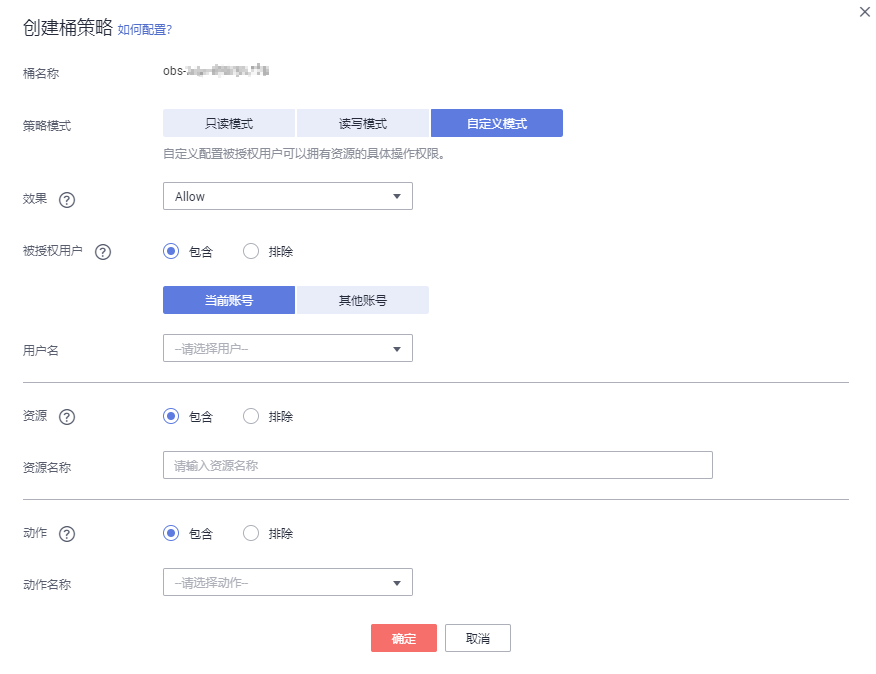
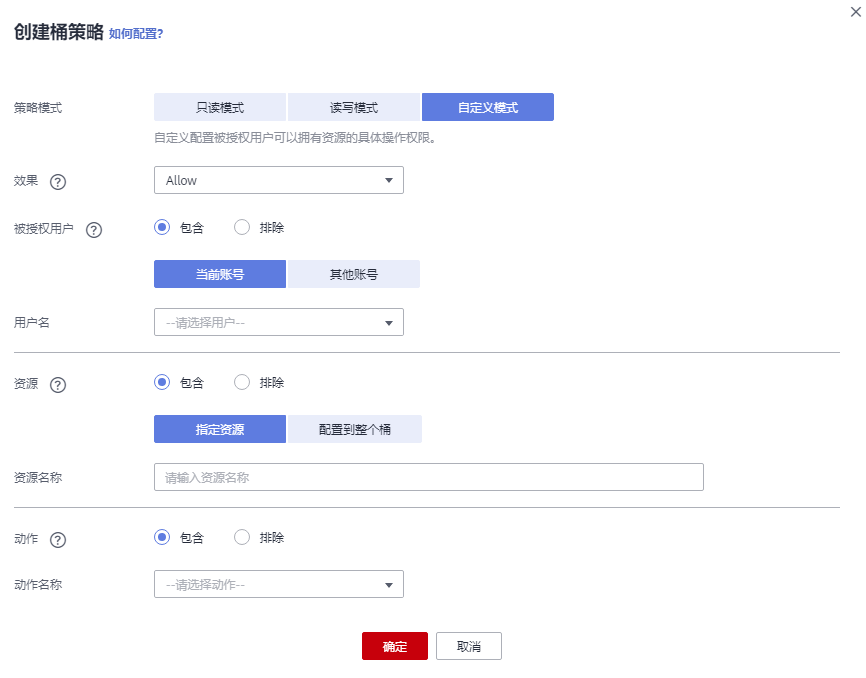
update console guide

diff --git a/cn.zh-cn/控制台指南/index.md b/cn.zh-cn/控制台指南/index.md
@@ -2,7 +2,7 @@
 
 -   [控制台功能概述](控制台功能概述.md)
 -   [使用限制](使用限制.md)
--   [入门]
+-   [入门](入门.md)
     -   [流程简介](流程简介.md)
     -   [设置用户权限](设置用户权限.md)
     -   [登录OBS管理控制台](登录OBS管理控制台.md)
@@ -13,13 +13,13 @@
     -   [删除桶](删除桶（入门操作）.md)
 
 -   [存储类别简介](存储类别简介.md)
--   [管理桶]
+-   [管理桶](管理桶.md)
     -   [创建桶](创建桶.md)
     -   [查看桶的信息](查看桶的信息.md)
     -   [搜索桶](搜索桶.md)
     -   [删除桶](删除桶.md)
 
--   [管理对象]
+-   [管理对象](管理对象.md)
     -   [新建文件夹](新建文件夹.md)
     -   [上传文件](上传文件.md)
     -   [下载文件](下载文件.md)
@@ -32,43 +32,43 @@
     -   [取消删除文件](取消删除文件.md)
     -   [清理碎片](清理碎片.md)
 
--   [服务端加密]
+-   [服务端加密](服务端加密.md)
     -   [服务端加密简介](服务端加密简介.md)
     -   [桶默认加密](桶默认加密.md)
     -   [使用服务端加密方式上传文件](使用服务端加密方式上传文件.md)
 
--   [对象元数据]
+-   [对象元数据](对象元数据.md)
     -   [对象元数据简介](对象元数据简介.md)
     -   [对象元数据Content-Type介绍](对象元数据Content-Type介绍.md)
     -   [配置对象元数据](配置对象元数据.md)
 
--   [桶清单]
+-   [桶清单](桶清单.md)
     -   [桶清单简介](桶清单简介.md)
     -   [配置桶清单](配置桶清单.md)
 
--   [权限控制]
+-   [权限控制](权限控制.md)
     -   [概述](概述.md)
-    -   [权限控制方式介绍]
+    -   [权限控制方式介绍](权限控制方式介绍.md)
         -   [IAM权限](IAM权限.md)
         -   [桶策略和对象策略](桶策略和对象策略.md)
         -   [桶ACL和对象ACL](桶ACL和对象ACL.md)
         -   [桶策略和ACL的关系](桶策略和ACL的关系.md)
         -   [访问控制机制冲突时，如何工作？](访问控制机制冲突时-如何工作.md)
 
-    -   [桶策略参数说明]
+    -   [桶策略参数说明](桶策略参数说明.md)
         -   [效果](效果.md)
         -   [被授权用户](被授权用户.md)
         -   [资源](资源.md)
         -   [动作](动作.md)
         -   [条件](条件.md)
 
-    -   [配置IAM权限]
+    -   [配置IAM权限](配置IAM权限.md)
         -   [创建IAM用户并授权使用OBS](创建IAM用户并授权使用OBS.md)
         -   [OBS自定义策略](OBS自定义策略.md)
         -   [OBS资源](OBS资源.md)
         -   [OBS请求条件](OBS请求条件.md)
 
-    -   [配置桶策略]
+    -   [配置桶策略](配置桶策略.md)
         -   [配置标准桶策略](配置标准桶策略.md)
         -   [配置高级桶策略（普通模式）](配置高级桶策略（普通模式）.md)
         -   [配置高级桶策略（代码模式）](配置高级桶策略（代码模式）.md)
@@ -76,9 +76,9 @@
     -   [配置对象策略](配置对象策略.md)
     -   [配置桶ACL](配置桶ACL.md)
     -   [配置对象ACL](配置对象ACL.md)
-    -   [应用示例]
-        -   [桶拥有者为IAM用户授予桶权限](桶拥有者为IAM用户授予桶权限.md)
-        -   [桶拥有者为其他账号授予桶权限](桶拥有者为其他账号授予桶权限.md)
+    -   [应用示例](应用示例.md)
+        -   [为IAM用户授予指定桶的操作权限](为IAM用户授予指定桶的操作权限.md)
+        -   [为其他华为云账号授予指定桶的操作权限](为其他华为云账号授予指定桶的操作权限.md)
         -   [限制特定地址对桶的访问权限](限制特定地址对桶的访问权限.md)
         -   [限制桶中对象的访问起始时间和结束时间](限制桶中对象的访问起始时间和结束时间.md)
         -   [为匿名用户设置对象的访问权限](为匿名用户设置对象的访问权限.md)
@@ -86,59 +86,59 @@
 
 
 -   [归档数据直读](归档数据直读.md)
--   [多版本控制]
+-   [多版本控制](多版本控制.md)
     -   [多版本控制简介](多版本控制简介.md)
     -   [配置多版本控制](配置多版本控制.md)
 
--   [日志记录]
+-   [日志记录](日志记录.md)
     -   [访问日志记录简介](访问日志记录简介.md)
     -   [配置桶的日志记录](配置桶的日志记录.md)
 
--   [标签]
+-   [标签](标签.md)
     -   [标签简介](标签简介.md)
     -   [配置标签](配置标签.md)
 
--   [事件通知]
+-   [事件通知](事件通知.md)
     -   [SMN通知简介](SMN通知简介.md)
     -   [配置SMN通知](配置SMN通知.md)
     -   [应用举例：配置SMN通知](应用举例-配置SMN通知.md)
 
--   [跨区域复制]
+-   [跨区域复制](跨区域复制.md)
     -   [跨区域复制简介](跨区域复制简介.md)
     -   [配置跨区域复制](配置跨区域复制.md)
 
--   [生命周期管理]
+-   [生命周期管理](生命周期管理.md)
     -   [生命周期管理简介](生命周期管理简介.md)
     -   [配置生命周期规则](配置生命周期规则.md)
 
--   [自定义域名绑定]
+-   [自定义域名绑定](自定义域名绑定.md)
     -   [自定义域名绑定简介](自定义域名绑定简介.md)
     -   [自定义域名绑定配置](自定义域名绑定配置.md)
 
--   [静态网站托管]
+-   [静态网站托管](静态网站托管.md)
     -   [静态网站托管简介](静态网站托管简介.md)
     -   [重定向简介](重定向简介.md)
     -   [配置静态网站托管](配置静态网站托管.md)
     -   [配置重定向请求](配置重定向请求.md)
 
--   [跨域资源共享]
+-   [跨域资源共享](跨域资源共享.md)
     -   [跨域资源共享简介](跨域资源共享简介.md)
     -   [配置跨域资源共享](配置跨域资源共享.md)
 
--   [防盗链]
+-   [防盗链](防盗链.md)
     -   [防盗链简介](防盗链简介.md)
     -   [配置防盗链](配置防盗链.md)
 
--   [监控]
+-   [监控](监控.md)
     -   [监控对象存储服务](监控对象存储服务.md)
     -   [对象存储服务监控指标说明](对象存储服务监控指标说明.md)
 
 -   [审计](审计.md)
 -   [任务管理](任务管理.md)
--   [任务集]
+-   [任务集](任务集.md)
     -   [创建IAM委托](创建IAM委托.md)
 
--   [异常处理]
+-   [异常处理](异常处理.md)
     -   [使用IE11浏览器下载对象时提示对象无法下载](使用IE11浏览器下载对象时提示对象无法下载.md)
     -   [使用IE9浏览器无法打开OBS管理控制台界面](使用IE9浏览器无法打开OBS管理控制台界面.md)
     -   [下载一个对象名较长的对象到本地后，对象名称改变](下载一个对象名较长的对象到本地后-对象名称改变.md)
@@ -146,4 +146,5 @@
     -   [出现“客户端与服务器的时间相差15分钟”的报错](出现-客户端与服务器的时间相差15分钟-的报错.md)
 
 -   [错误码列表](错误码列表.md)
+-   [修订记录](修订记录.md)
 

diff --git a/cn.zh-cn/控制台指南/为IAM用户授予指定桶的操作权限.md b/cn.zh-cn/控制台指南/为IAM用户授予指定桶的操作权限.md
@@ -1,8 +1,12 @@
-# 桶拥有者为IAM用户授予桶权限<a name="obs_03_0080"></a>
+# 为IAM用户授予指定桶的操作权限<a name="obs_03_0080"></a>
 
-在主账号下创建一个IAM用户，IAM用户不加入任何用户组，该IAM用户没有任何权限。桶拥有者（主账号）可以通过配置桶策略授予IAM用户桶的权限。
+在主账号下创建一个IAM用户，IAM用户不加入任何用户组，该IAM用户没有任何权限。桶拥有者（主账号）或者拥有设置桶策略权限的账号及IAM用户可以通过配置桶策略授予IAM用户桶的权限。
 
-下面示例中，主账号授予IAM用户访问桶和上传对象的权限。
+下面示例以授予IAM用户访问桶和上传对象的权限为例。
+
+## 须知<a name="section5420122610176"></a>
+
+通过本示例，被授权的IAM用户可以通过Browser+、API或SDK访问被授权的桶并上传对象，但无法在OBS控制台访问。如果想要实现控制台访问，还需要通过[自定义策略](https://support.huaweicloud.com/usermanual-iam/iam_01_0605.html)将IAM用户加入针对OBS所有资源拥有**obs:bucket:ListAllMyBuckets**权限的用户组，即授予IAM用户列举桶的权限，才能保证在进入控制台后能看到被授权的桶。
 
 ## 操作步骤<a name="section13279211683"></a>
 
@@ -11,7 +15,7 @@
 3.  在左侧导航栏，单击“访问权限控制”，进入权限管理页面。
 4.  单击“桶策略\>高级桶策略”。
 5.  单击“创建桶策略”，系统弹出“创建桶策略”对话框。
-6.  配置如下参数，授予IAM用户访问桶的权限。
+6.  配置如下参数，授予IAM用户访问桶（列举对象）的权限。
 
     **表 1**  授予访问桶的权限的参数配置
 
@@ -39,7 +43,7 @@
     </tr>
     <tr id="row653285374414"><td class="cellrowborder" valign="top" width="23.189999999999998%" headers="mcps1.2.3.1.1 "><p id="p753212538444"><a name="p753212538444"></a><a name="p753212538444"></a>资源</p>
     </td>
-    <td class="cellrowborder" valign="top" width="76.81%" headers="mcps1.2.3.1.2 "><a name="ul964933612542"></a><a name="ul964933612542"></a><ul id="ul964933612542"><li>包含</li><li>资源名称不配置</li></ul>
+    <td class="cellrowborder" valign="top" width="76.81%" headers="mcps1.2.3.1.2 "><a name="ul964933612542"></a><a name="ul964933612542"></a><ul id="ul964933612542"><li>包含</li><li>选择“配置到整个桶”</li></ul>
     </td>
     </tr>
     <tr id="row18790945165418"><td class="cellrowborder" valign="top" width="23.189999999999998%" headers="mcps1.2.3.1.1 "><p id="p12791194519544"><a name="p12791194519544"></a><a name="p12791194519544"></a>动作</p>
@@ -83,12 +87,15 @@
     </tr>
     <tr id="row126721226135618"><td class="cellrowborder" valign="top" width="22.98%" headers="mcps1.2.3.1.1 "><p id="p0673122685615"><a name="p0673122685615"></a><a name="p0673122685615"></a>资源</p>
     </td>
-    <td class="cellrowborder" valign="top" width="77.02%" headers="mcps1.2.3.1.2 "><a name="ul11674152619564"></a><a name="ul11674152619564"></a><ul id="ul11674152619564"><li>包含</li><li>资源名称：*</li></ul>
+    <td class="cellrowborder" valign="top" width="77.02%" headers="mcps1.2.3.1.2 "><a name="ul11674152619564"></a><a name="ul11674152619564"></a><ul id="ul11674152619564"><li>包含</li><li>选择“指定资源”</li><li>资源名称：*</li></ul>
     </td>
     </tr>
     <tr id="row167522618569"><td class="cellrowborder" valign="top" width="22.98%" headers="mcps1.2.3.1.1 "><p id="p1367692611568"><a name="p1367692611568"></a><a name="p1367692611568"></a>动作</p>
     </td>
     <td class="cellrowborder" valign="top" width="77.02%" headers="mcps1.2.3.1.2 "><a name="ul176761226135619"></a><a name="ul176761226135619"></a><ul id="ul176761226135619"><li>包含</li><li>PutObject</li></ul>
+    <div class="note" id="note1250310062911"><a name="note1250310062911"></a><a name="note1250310062911"></a><span class="notetitle"> 说明： </span><div class="notebody"><p id="p550314042918"><a name="p550314042918"></a><a name="p550314042918"></a>本例仅授予上传对象权限。可以根据业务需要选择多个动作，同时授予其他操作权限。<span class="parmvalue" id="parmvalue10238191320303"><a name="parmvalue10238191320303"></a><a name="parmvalue10238191320303"></a>“*”</span>代表所有操作。</p>
+    <p id="p131981634163011"><a name="p131981634163011"></a><a name="p131981634163011"></a>支持的动作及含义请参见<a href="动作.md">动作</a>。</p>
+    </div></div>
     </td>
     </tr>
     </tbody>

diff --git a/cn.zh-cn/控制台指南/配置高级桶策略（普通模式）.md b/cn.zh-cn/控制台指南/配置高级桶策略（普通模式）.md
@@ -92,10 +92,9 @@
     </tr>
     <tr id="row26311294144542"><td class="cellrowborder" valign="top" width="20.202020202020204%" headers="mcps1.2.4.1.1 "><p id="p50840088144542"><a name="p50840088144542"></a><a name="p50840088144542"></a>资源</p>
     </td>
-    <td class="cellrowborder" valign="top" width="34.343434343434346%" headers="mcps1.2.4.1.2 "><a name="ul151711055754"></a><a name="ul151711055754"></a><ul id="ul151711055754"><li>包含、排除</li><li>输入格式：<p id="p13659113718819"><a name="p13659113718819"></a><a name="p13659113718819"></a>对象：<em id="i6492155010917"><a name="i6492155010917"></a><a name="i6492155010917"></a>对象名称</em></p>
-    <p id="p47531246786"><a name="p47531246786"></a><a name="p47531246786"></a>对象集：<em id="i7391726162"><a name="i7391726162"></a><a name="i7391726162"></a>“<em id="i123262027121614"><a name="i123262027121614"></a><a name="i123262027121614"></a>对象名称前缀</em>”+</em>“*”、“*”+“对象名后缀”或“*”</p>
-    <p id="p484811521683"><a name="p484811521683"></a><a name="p484811521683"></a>空：表示资源为整个桶</p>
-    </li></ul>
+    <td class="cellrowborder" valign="top" width="34.343434343434346%" headers="mcps1.2.4.1.2 "><a name="ul151711055754"></a><a name="ul151711055754"></a><ul id="ul151711055754"><li>包含、排除</li><li>指定资源：<p id="p547113144111"><a name="p547113144111"></a><a name="p547113144111"></a>对象：<em id="i647114114120"><a name="i647114114120"></a><a name="i647114114120"></a>对象名称</em></p>
+    <p id="p347116118412"><a name="p347116118412"></a><a name="p347116118412"></a>对象集：<em id="i547111104119"><a name="i547111104119"></a><a name="i547111104119"></a>“<em id="i18471111144114"><a name="i18471111144114"></a><a name="i18471111144114"></a>对象名称前缀</em>”+</em>“*”、“*”+“对象名后缀”或“*”</p>
+    </li><li>配置到整个桶：表示资源为整个桶</li></ul>
     </td>
     <td class="cellrowborder" valign="top" width="45.45454545454546%" headers="mcps1.2.4.1.3 "><p id="p144361117943"><a name="p144361117943"></a><a name="p144361117943"></a>桶策略作用于的资源。</p>
     <a name="ul1243923162015"></a><a name="ul1243923162015"></a><ul id="ul1243923162015"><li>包含：桶策略对指定的<span id="ph584114442015"><a name="ph584114442015"></a><a name="ph584114442015"></a>OBS</span>资源生效。</li><li>排除：桶策略对除设置外的其他<span id="ph2894164642013"><a name="ph2894164642013"></a><a name="ph2894164642013"></a>OBS</span>资源生效。</li></ul>

diff --git a/cn.zh-cn/控制台指南/为其他华为云账号授予指定桶的操作权限.md b/cn.zh-cn/控制台指南/为其他华为云账号授予指定桶的操作权限.md
@@ -1,8 +1,8 @@
-# 桶拥有者为其他账号授予桶权限<a name="obs_03_0081"></a>
+# 为其他华为云账号授予指定桶的操作权限<a name="obs_03_0081"></a>
 
-桶拥有者可以通过配置桶策略授予其他账号或其他账号下IAM用户桶的权限。
+桶拥有者（主账号）或者拥有设置桶策略权限的账号及IAM用户可以通过配置桶策略授予其他账号或其他账号下IAM用户桶的权限。
 
-下面示例中，桶拥有者授予其他账号访问桶和上传对象的权限。
+下面示例以授予其他账号访问桶和上传对象的权限为例。
 
 ## 操作步骤<a name="section435994418812"></a>
 
@@ -42,7 +42,7 @@
     </tr>
     <tr id="row653285374414"><td class="cellrowborder" valign="top" width="22.46%" headers="mcps1.2.3.1.1 "><p id="p753212538444"><a name="p753212538444"></a><a name="p753212538444"></a>资源</p>
     </td>
-    <td class="cellrowborder" valign="top" width="77.53999999999999%" headers="mcps1.2.3.1.2 "><a name="ul964933612542"></a><a name="ul964933612542"></a><ul id="ul964933612542"><li>包含</li><li>资源名称不配置</li></ul>
+    <td class="cellrowborder" valign="top" width="77.53999999999999%" headers="mcps1.2.3.1.2 "><a name="ul964933612542"></a><a name="ul964933612542"></a><ul id="ul964933612542"><li>包含</li><li>选择“配置到整个桶”</li></ul>
     </td>
     </tr>
     <tr id="row18790945165418"><td class="cellrowborder" valign="top" width="22.46%" headers="mcps1.2.3.1.1 "><p id="p12791194519544"><a name="p12791194519544"></a><a name="p12791194519544"></a>动作</p>
@@ -89,7 +89,7 @@
     </tr>
     <tr id="row126721226135618"><td class="cellrowborder" valign="top" width="23.29%" headers="mcps1.2.3.1.1 "><p id="p0673122685615"><a name="p0673122685615"></a><a name="p0673122685615"></a>资源</p>
     </td>
-    <td class="cellrowborder" valign="top" width="76.71%" headers="mcps1.2.3.1.2 "><a name="ul11674152619564"></a><a name="ul11674152619564"></a><ul id="ul11674152619564"><li>包含</li><li>资源名称：*</li></ul>
+    <td class="cellrowborder" valign="top" width="76.71%" headers="mcps1.2.3.1.2 "><a name="ul11674152619564"></a><a name="ul11674152619564"></a><ul id="ul11674152619564"><li>包含</li><li>选择“指定资源”</li><li>资源名称：*</li></ul>
     </td>
     </tr>
     <tr id="row167522618569"><td class="cellrowborder" valign="top" width="23.29%" headers="mcps1.2.3.1.1 "><p id="p1367692611568"><a name="p1367692611568"></a><a name="p1367692611568"></a>动作</p>

diff --git a/cn.zh-cn/控制台指南/限制特定地址对桶的访问权限.md b/cn.zh-cn/控制台指南/限制特定地址对桶的访问权限.md
@@ -37,7 +37,7 @@
     </tr>
     <tr id="row653285374414"><td class="cellrowborder" valign="top" width="21.740000000000002%" headers="mcps1.2.3.1.1 "><p id="p753212538444"><a name="p753212538444"></a><a name="p753212538444"></a>资源</p>
     </td>
-    <td class="cellrowborder" valign="top" width="78.25999999999999%" headers="mcps1.2.3.1.2 "><a name="ul12411915123314"></a><a name="ul12411915123314"></a><ul id="ul12411915123314"><li>包含</li><li>不配置前缀，表示整个桶资源。</li></ul>
+    <td class="cellrowborder" valign="top" width="78.25999999999999%" headers="mcps1.2.3.1.2 "><a name="ul12411915123314"></a><a name="ul12411915123314"></a><ul id="ul12411915123314"><li>包含</li><li>选择“配置到整个桶”</li></ul>
     </td>
     </tr>
     <tr id="row18790945165418"><td class="cellrowborder" valign="top" width="21.740000000000002%" headers="mcps1.2.3.1.1 "><p id="p12791194519544"><a name="p12791194519544"></a><a name="p12791194519544"></a>动作</p>
@@ -61,5 +61,5 @@
 
 ## 相关场景<a name="section1983162754"></a>
 
-如果想要实现只允许指定的IP地址访问OBS桶，则将上述示例中桶策略的“条件运算符”设置为“NotIpAddress”，并在“值”中指定允许的IP地址即可。例如，只允许所有华为云ECS的IP地址访问OBS桶，则将“值”设置为“100.64.0.0/10”，此地址包含所有华为云ECS以及专属云ECS。
+如果想要实现只允许指定的IP地址访问OBS桶，则将上述示例中桶策略的“条件运算符”设置为“NotIpAddress”，并在“值”中指定允许的IP地址即可。
 

diff --git a/cn.zh-cn/控制台指南/桶ACL和对象ACL.md b/cn.zh-cn/控制台指南/桶ACL和对象ACL.md
@@ -20,7 +20,7 @@ OBS支持通过ACL对[表1](#table177445813209)所示用户或用户组授予桶
 <tbody><tr id="row122361958192016"><td class="cellrowborder" valign="top" width="27%" headers="mcps1.2.3.1.1 "><p id="p1223615586209"><a name="p1223615586209"></a><a name="p1223615586209"></a>特定用户</p>
 </td>
 <td class="cellrowborder" valign="top" width="73%" headers="mcps1.2.3.1.2 "><p id="p1377083924318"><a name="p1377083924318"></a><a name="p1377083924318"></a>ACL支持通过账号授予桶/对象的访问权限。授予账号权限后，账号下所有具有<span id="ph6770113934313"><a name="ph6770113934313"></a><a name="ph6770113934313"></a>OBS</span>资源权限的IAM用户都可以拥有此桶/对象的访问权限。</p>
-<p id="p223612587202"><a name="p223612587202"></a><a name="p223612587202"></a>当需要为不同IAM用户授予不同的权限时，可以通过桶策略配置，具体操作请参见<a href="桶拥有者为IAM用户授予桶权限.md">桶拥有者为IAM用户授予桶权限</a>。</p>
+<p id="p223612587202"><a name="p223612587202"></a><a name="p223612587202"></a>当需要为不同IAM用户授予不同的权限时，可以通过桶策略配置，具体操作请参见<a href="为IAM用户授予指定桶的操作权限.md">为IAM用户授予指定桶的操作权限</a>。</p>
 </td>
 </tr>
 <tr id="row14236115815207"><td class="cellrowborder" valign="top" width="27%" headers="mcps1.2.3.1.1 "><p id="p4237195812018"><a name="p4237195812018"></a><a name="p4237195812018"></a>拥有者</p>

diff --git a/cn.zh-cn/控制台指南/控制台功能概述.md b/cn.zh-cn/控制台指南/控制台功能概述.md
@@ -103,6 +103,11 @@
 <td class="cellrowborder" valign="top" width="66%" headers="mcps1.2.3.1.2 "><p id="p536013440486"><a name="p536013440486"></a><a name="p536013440486"></a>跨域资源共享（CORS）是由W3C标准化组织提出的一种网络浏览器的规范机制，定义了一个域中加载的客户端Web应用程序与另一个域中的资源交互的方式。而在通常的网页请求中，由于同源安全策略（Same Origin Policy，SOP）的存在，不同域之间的网站脚本和内容是无法进行交互的。</p>
 </td>
 </tr>
+<tr id="row1580616402228"><td class="cellrowborder" valign="top" width="34%" headers="mcps1.2.3.1.1 "><p id="p68061540162218"><a name="p68061540162218"></a><a name="p68061540162218"></a><a href="归档数据直读.md">归档数据直读</a></p>
+</td>
+<td class="cellrowborder" valign="top" width="66%" headers="mcps1.2.3.1.2 "><p id="p11806740182210"><a name="p11806740182210"></a><a name="p11806740182210"></a>您可以为桶开启归档数据直读，开启后存储类别为归档存储的对象可以直接下载，无需提前恢复。归档数据直读会收取相应的费用。</p>
+</td>
+</tr>
 </tbody>
 </table>
 

diff --git a/cn.zh-cn/控制台指南/为匿名用户设置文件夹的访问权限.md b/cn.zh-cn/控制台指南/为匿名用户设置文件夹的访问权限.md
@@ -37,7 +37,7 @@
     </tr>
     <tr id="row653285374414"><td class="cellrowborder" valign="top" width="21.95%" headers="mcps1.2.3.1.1 "><p id="p753212538444"><a name="p753212538444"></a><a name="p753212538444"></a>资源</p>
     </td>
-    <td class="cellrowborder" valign="top" width="78.05%" headers="mcps1.2.3.1.2 "><a name="ul12411915123314"></a><a name="ul12411915123314"></a><ul id="ul12411915123314"><li>包含</li><li>配置为选中文件夹内的所有对象，如文件夹名称为“folder-001”时，资源值为“folder-001/*”。</li></ul>
+    <td class="cellrowborder" valign="top" width="78.05%" headers="mcps1.2.3.1.2 "><a name="ul12411915123314"></a><a name="ul12411915123314"></a><ul id="ul12411915123314"><li>包含</li><li>选择“指定资源”</li><li>配置为选中文件夹内的所有对象，如文件夹名称为“folder-001”时，资源值为“folder-001/*”。</li></ul>
     </td>
     </tr>
     <tr id="row18790945165418"><td class="cellrowborder" valign="top" width="21.95%" headers="mcps1.2.3.1.1 "><p id="p12791194519544"><a name="p12791194519544"></a><a name="p12791194519544"></a>动作</p>

diff --git a/cn.zh-cn/控制台指南/限制桶中对象的访问起始时间和结束时间.md b/cn.zh-cn/控制台指南/限制桶中对象的访问起始时间和结束时间.md
@@ -37,7 +37,7 @@
     </tr>
     <tr id="row653285374414"><td class="cellrowborder" valign="top" width="22.259999999999998%" headers="mcps1.2.3.1.1 "><p id="p753212538444"><a name="p753212538444"></a><a name="p753212538444"></a>资源</p>
     </td>
-    <td class="cellrowborder" valign="top" width="77.74%" headers="mcps1.2.3.1.2 "><a name="ul12411915123314"></a><a name="ul12411915123314"></a><ul id="ul12411915123314"><li>包含</li><li>不配置前缀，表示整个桶资源。</li></ul>
+    <td class="cellrowborder" valign="top" width="77.74%" headers="mcps1.2.3.1.2 "><a name="ul12411915123314"></a><a name="ul12411915123314"></a><ul id="ul12411915123314"><li>包含</li><li>选择“配置到整个桶”</li></ul>
     </td>
     </tr>
     <tr id="row18790945165418"><td class="cellrowborder" valign="top" width="22.259999999999998%" headers="mcps1.2.3.1.1 "><p id="p12791194519544"><a name="p12791194519544"></a><a name="p12791194519544"></a>动作</p>

diff --git a/cn.zh-cn/控制台指南/配置生命周期规则.md b/cn.zh-cn/控制台指南/配置生命周期规则.md
@@ -60,7 +60,7 @@
         若您在当天设置前缀为“log”的对象，转换为低频访问存储的时间设置为30天，转换为归档存储的时间设置为60天，过期删除的时间设置为100天，OBS将会第31天将“log/clientlog.log”、“log/serverlog.log”、“log/test1.log”和“log/test2.log”这四个对象转换为低频访问存储，第61天后转换为归档存储，第101天后自动删除这些对象。
 
     >![](public_sys-resources/icon-note.gif) **说明：**   
-    >对象存储类别的转换以及过期后被删除的时间可能会延迟，一般不超过48小时。  
+    >对象存储类别的转换以及过期后被删除的时间可能会延迟，一般不超过48小时。配置生命周期规则后，如果期间修改了生命周期配置，会重新计算生效时间。  
 
 6.  单击“确定”，完成生命周期规则配置。
 

diff --git a/cn.zh-cn/控制台指南/防盗链简介.md b/cn.zh-cn/控制台指南/防盗链简介.md
@@ -4,5 +4,5 @@
 
 在HTTP协议中，通过表头字段referer，网站可以检测目标网页访问的来源网页。有了referer跟踪来源，就可以通过技术手段来进行处理，一旦检测到来源不是本站即进行阻止或者返回指定的页面。防盗链就是通过设置Referer，去检测请求来源的referer字段信息是否与白名单或黑名单匹配，若与白名单匹配成功则允许请求访问，否则阻止请求访问或返回指定页面。
 
-为了防止用户在OBS的数据被其他人盗链，OBS支持基于 HTTP header中表头字段referer的防盗链方法。OBS同时支持访问白名单和访问黑名单的设置。
+为了防止用户在OBS的数据被其他人盗链，OBS支持基于HTTP header中表头字段referer的防盗链方法。OBS同时支持访问白名单和访问黑名单的设置。
 
